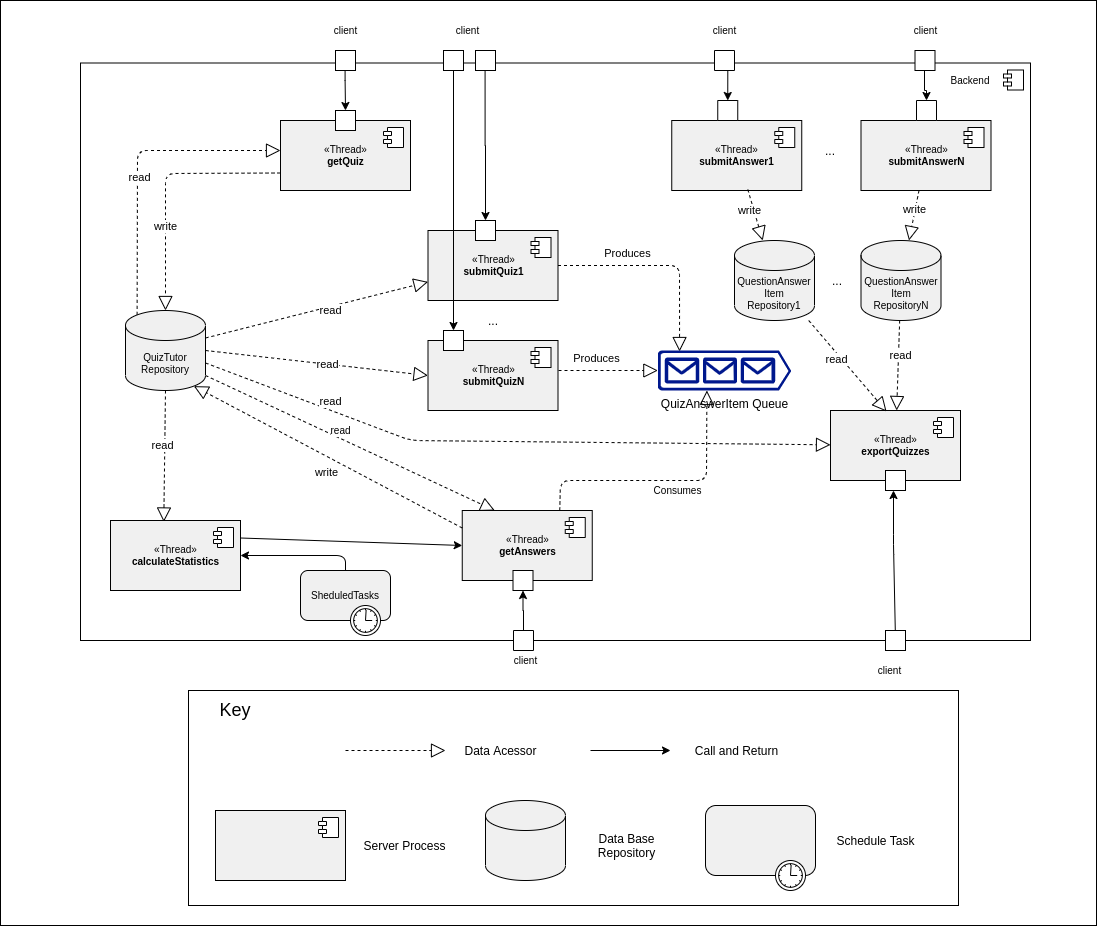
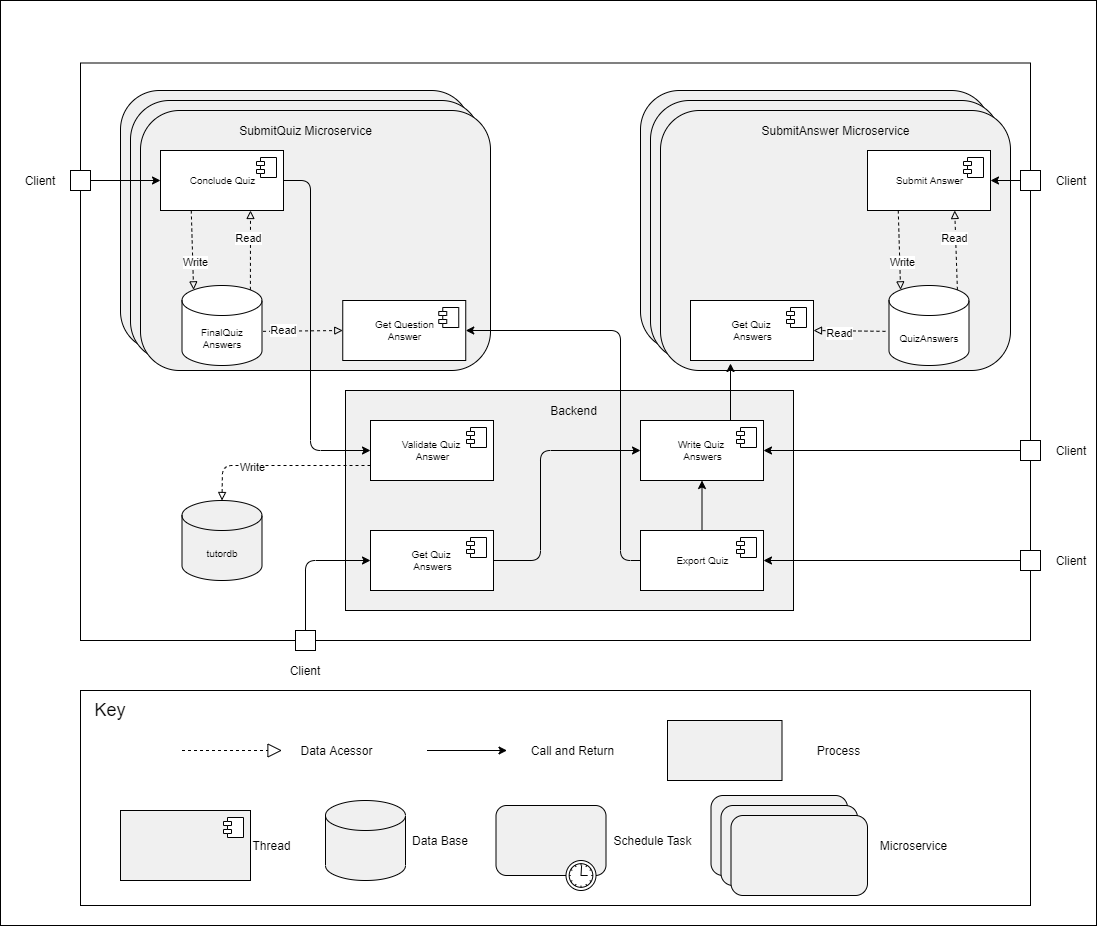
update scalability architecture and report

diff --git a/as-report.md b/as-report.md
@@ -92,9 +92,11 @@ In the chart above we can observe that the performance almost follows a linear d
 
 ## Scalability
 
-Analyzing the test for performance, we detected a bottleneck in the access to the database while submitting an answer and concluding the quiz. Therefore, we made the following changes:
-* Turned the QuizAnswerItem Repository into a Queue, where the submitQuiz threads produce QuizAnswerItem and the getAnswers thread consumes;
-* Instead of having one QuestionAnswerItem Repository we have an individual repository for each instance of submitAnswer.
+Analysing the test for performance, we detected a bottleneck in the access to the database while submitting an answer and concluding the quiz. Initially we tried a monolithic approach, where each thread had a table to store the answers, but this approach only scaled vertically, and if it were horizontally scaled would make increasing the performance easier, the solution was microservices, since we only needed to boot more instances of a microservice and add more hardware to easily increase performance without much effort. Therefore, we made the following changes:
+* Created a microservice to handle the submission of answers, with its own database to store the submissions.
+* Created a microservice to handle the submission of final quizzes' answers, with its own database to store the answers.
+
+The backend now in order to get information about the answers has to communicate with the microservice that has that information to get it, has we can see in the architecture developed below.
 
 ### Architecture
 
